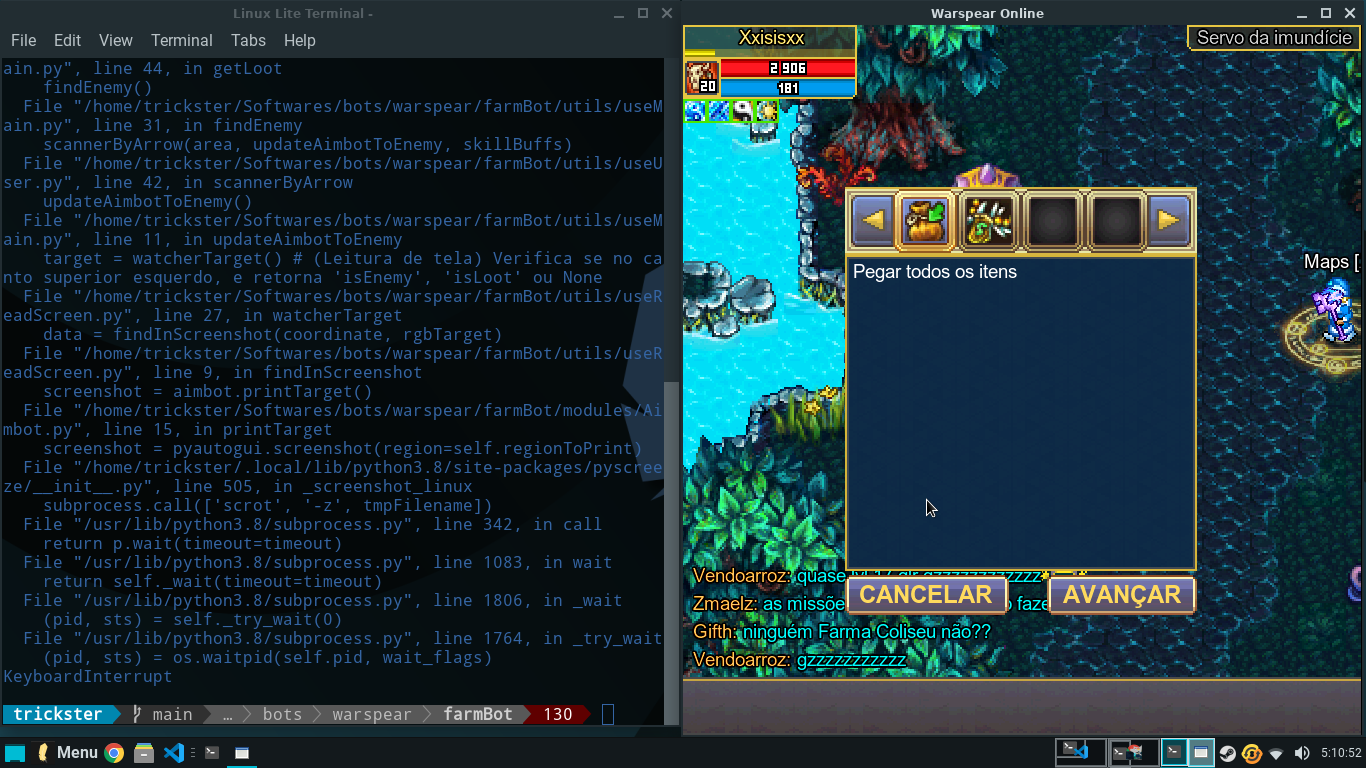
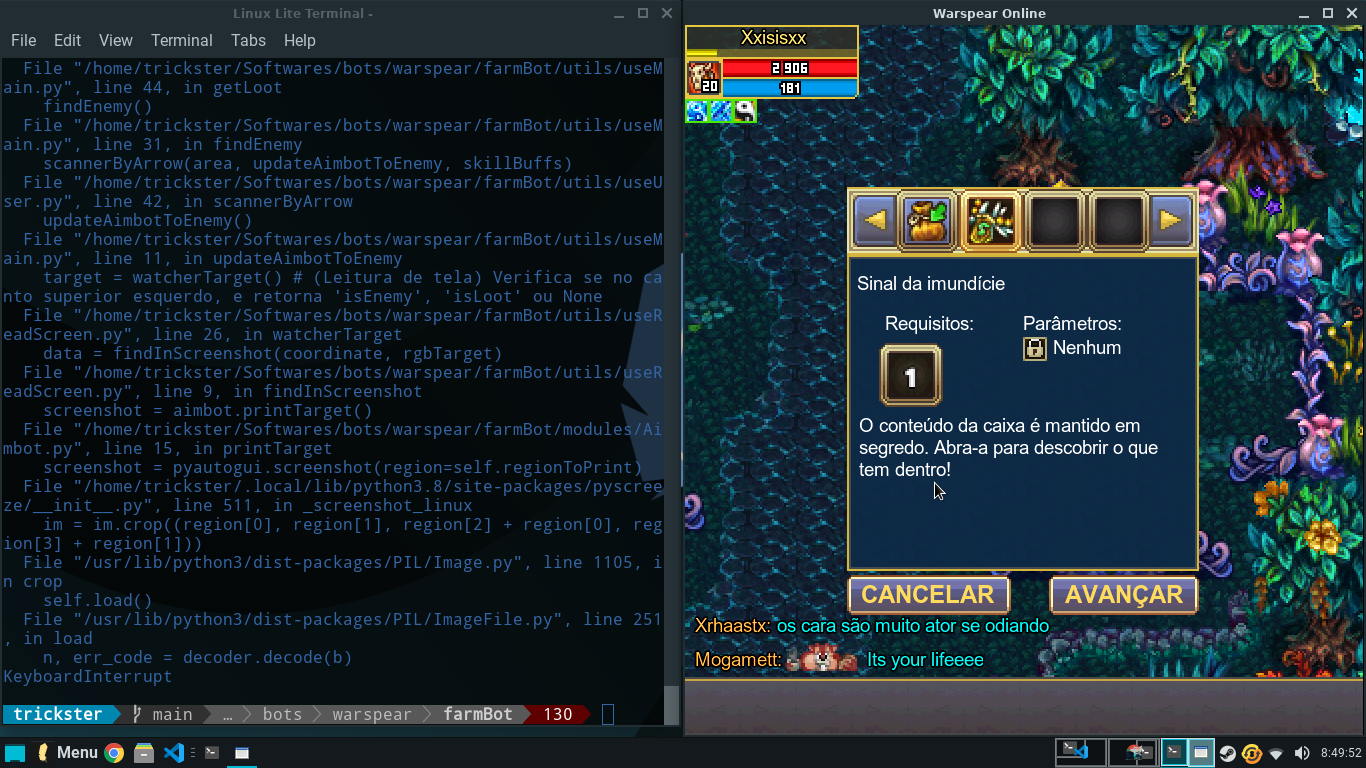
Redoing selection methodology in lottery

diff --git a/utils/useUser.py b/utils/useUser.py
@@ -1,6 +1,6 @@
 from time import sleep
 from modules.Aimbot import aimbot # ERROR: CHAMA O useMain E O useMain também chama o useUser
-from utils.useReadScreen import myLocation, counterValuesItems
+from utils.useReadScreen import myLocation, watcherLoot, isBagOpen
 
 # Clica no user
 def clickMe ():
@@ -61,30 +61,40 @@ def openGetCloseLoot ():
     print('enter')
     aimbot.pressButton('enter', hold) # Vá até o loot e abrá
     
-    sleep(1) # Espere chegar lá
+    sleep(2) # Espere chegar lá
     
-    # (Agora com a bag aberta)
+    open = isBagOpen()
+    print(open)
+    
+    if (open == True):
    
-    amount = counterValuesItems()
-    print(amount)
-    
-    # (Sabendo a quantidade de itens)
-    # moveArrow pra direira
-    # click a quantidade de itens
-    print('right')
-    aimbot.pressButton('right', hold)
-    
-    for presses in range(0, amount):
+        print('right')
+        aimbot.pressButton('right', hold)
+
         sleep(.5)
+
+        for presses in range(0, 2):
+            isValueItems = watcherLoot()
+
+            if (isValueItems == True):
+                sleep(1)
+                print('enter')
+                aimbot.pressButton('enter', hold)
+            else:
+                break
+        
+        sleep(1)
+        print('f1')
+        aimbot.pressButton('f1', hold)
+        
+        print('1')
+        aimbot.pressButton('1', hold)
+
         print('enter')
         aimbot.pressButton('enter', hold)
-    
-    # (E para fechar a bag)
-    # Aperte 'f1'
-    sleep(.5)
-    print('f1')
-    aimbot.pressButton('f1', hold)
-    
+                   
+
+
     print('fim do looteamento')
         
         

diff --git a/utils/useReadScreen.py b/utils/useReadScreen.py
@@ -12,7 +12,6 @@ def findInScreenshot (coordinate, rgbTarget):
     
     return data
 
-# 1269, 39
 # (Leitura de tela) Verifica se no camto superior esquerdo, há a indicação de um inimigo
 def watcherTarget (): 
     # Dados do pixel
@@ -36,14 +35,38 @@ def watcherTarget ():
     else:
         return None
     
-def counterValuesItems ():
-    coordinate = (967, 197, 250 , 53)
-    frames = ['images/frames/gold.png', 'images/frames/imundice.png']
+def isBagOpen ():
+    # Dados do pixel
+    coordinate = (932, 220, 1, 1)
+    # Rgb alvos
+    rgbOpen = [( 90, 239,  74)]
+   
+    # Retorna a localização do pixel se coiciderem com os dados enviados, se não retorna None
+    data = findInScreenshot(coordinate, rgbOpen)
+    print(data)
+
+    if (data !=  None):
+        return True
+    else:
+        return False
+    
+def watcherLoot ():
+    # Dados do pixel
+    coordinate = (990, 220, 10, 10)
+    # Rgb alvos
+    rgbGold = (255, 255,  57)
+    rgbImundice = (198, 181,  82)
+    
+    rgbLoots = [rgbGold, rgbImundice] 
     
     # Retorna a localização do pixel se coiciderem com os dados enviados, se não retorna None
-    amount = aimbot.counterFrame(coordinate, frames)
-    
-    return amount
+    data = findInScreenshot(coordinate, rgbLoots)
+    print(data)
+
+    if (data !=  None):
+        return True
+    else:
+        return False
     
 def myLocation ():
     # Coordenadas da area onde o user pode estar

diff --git a/modules/Aimbot.py b/modules/Aimbot.py
@@ -43,17 +43,6 @@ class Aimbot:
         else:
             return None
     
-    def counterFrame (self, coordinate, frames):
-        counter = 0
-        
-        for frame in frames:
-            data = pyautogui.locateOnScreen(frame, region=coordinate, confidence=0.7)
-            print(data)
-            if (data != None):
-                print(data)
-                counter += 1
-        return counter
-    
     # Pressiona uma keyword
     def pressButton (self, button, hold):
         if (hold == True): # Deve pressiona o button indicado + 'alt'
